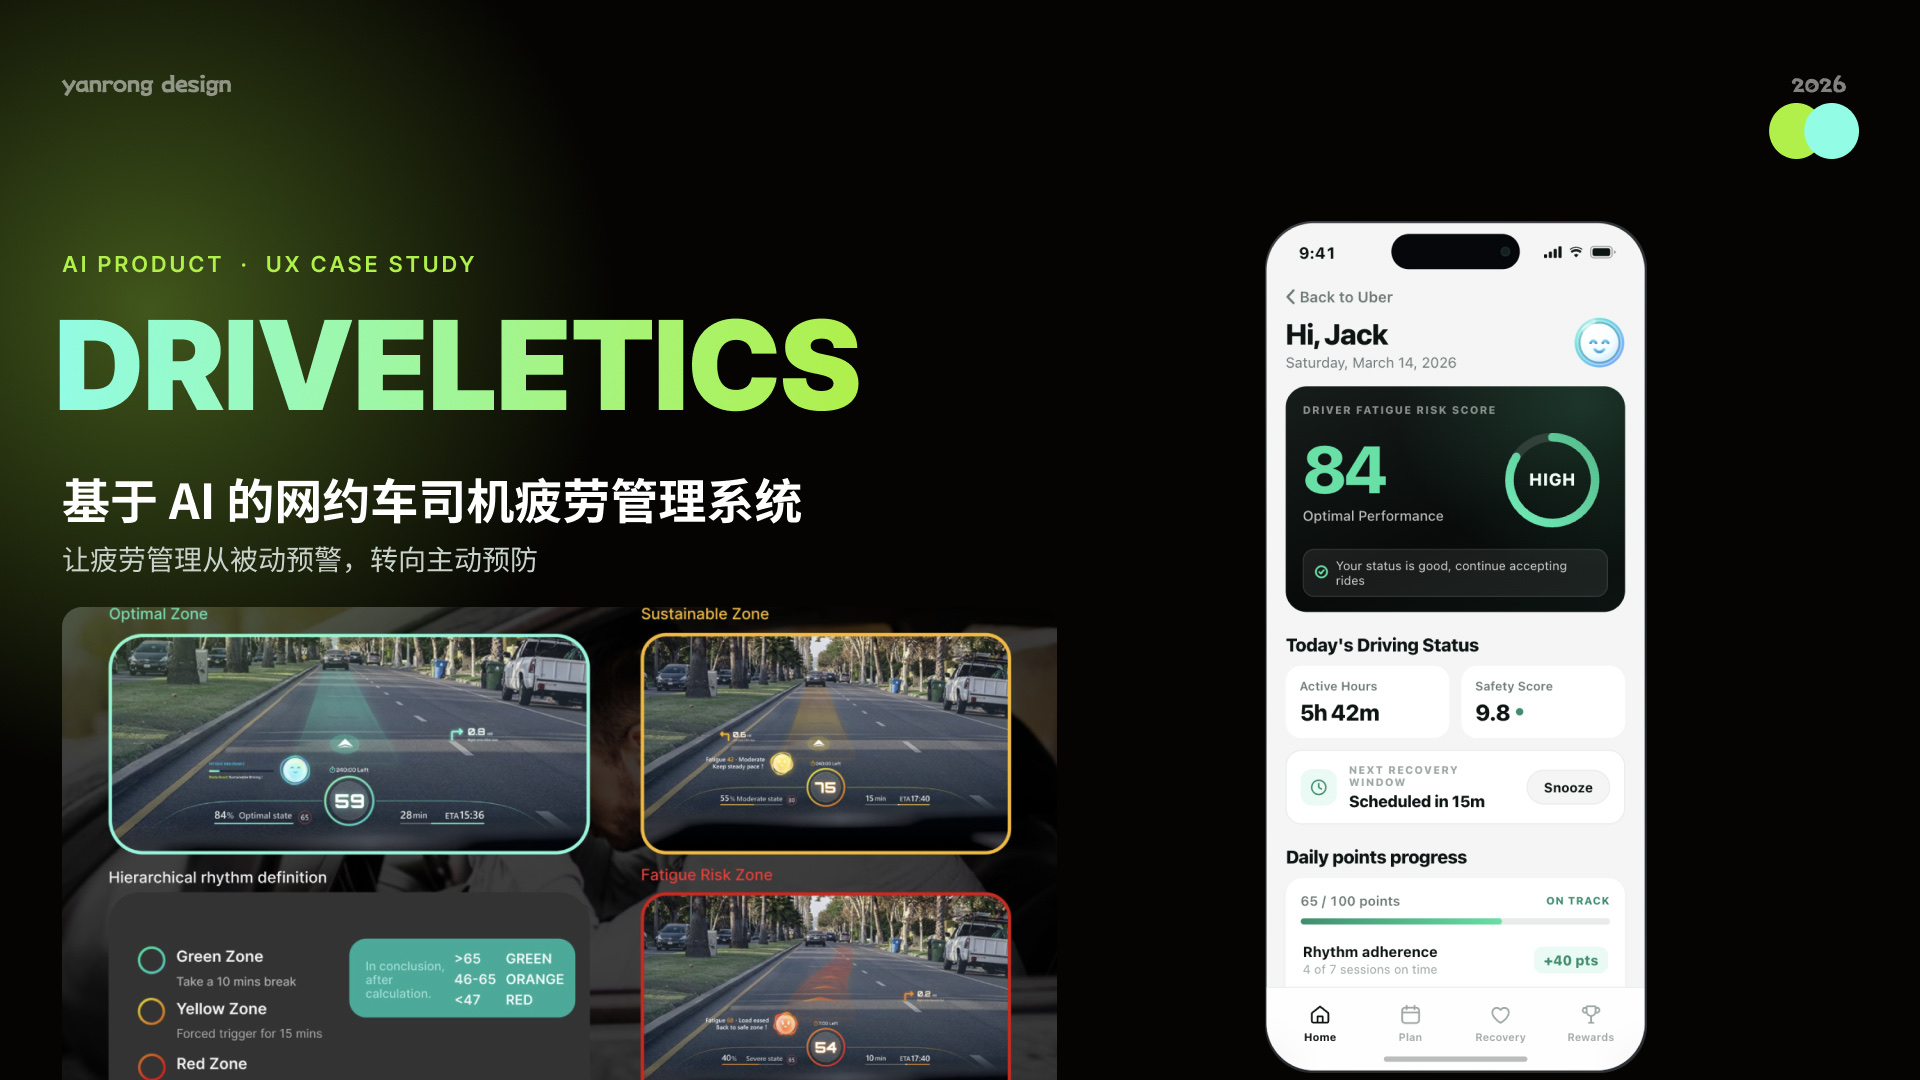
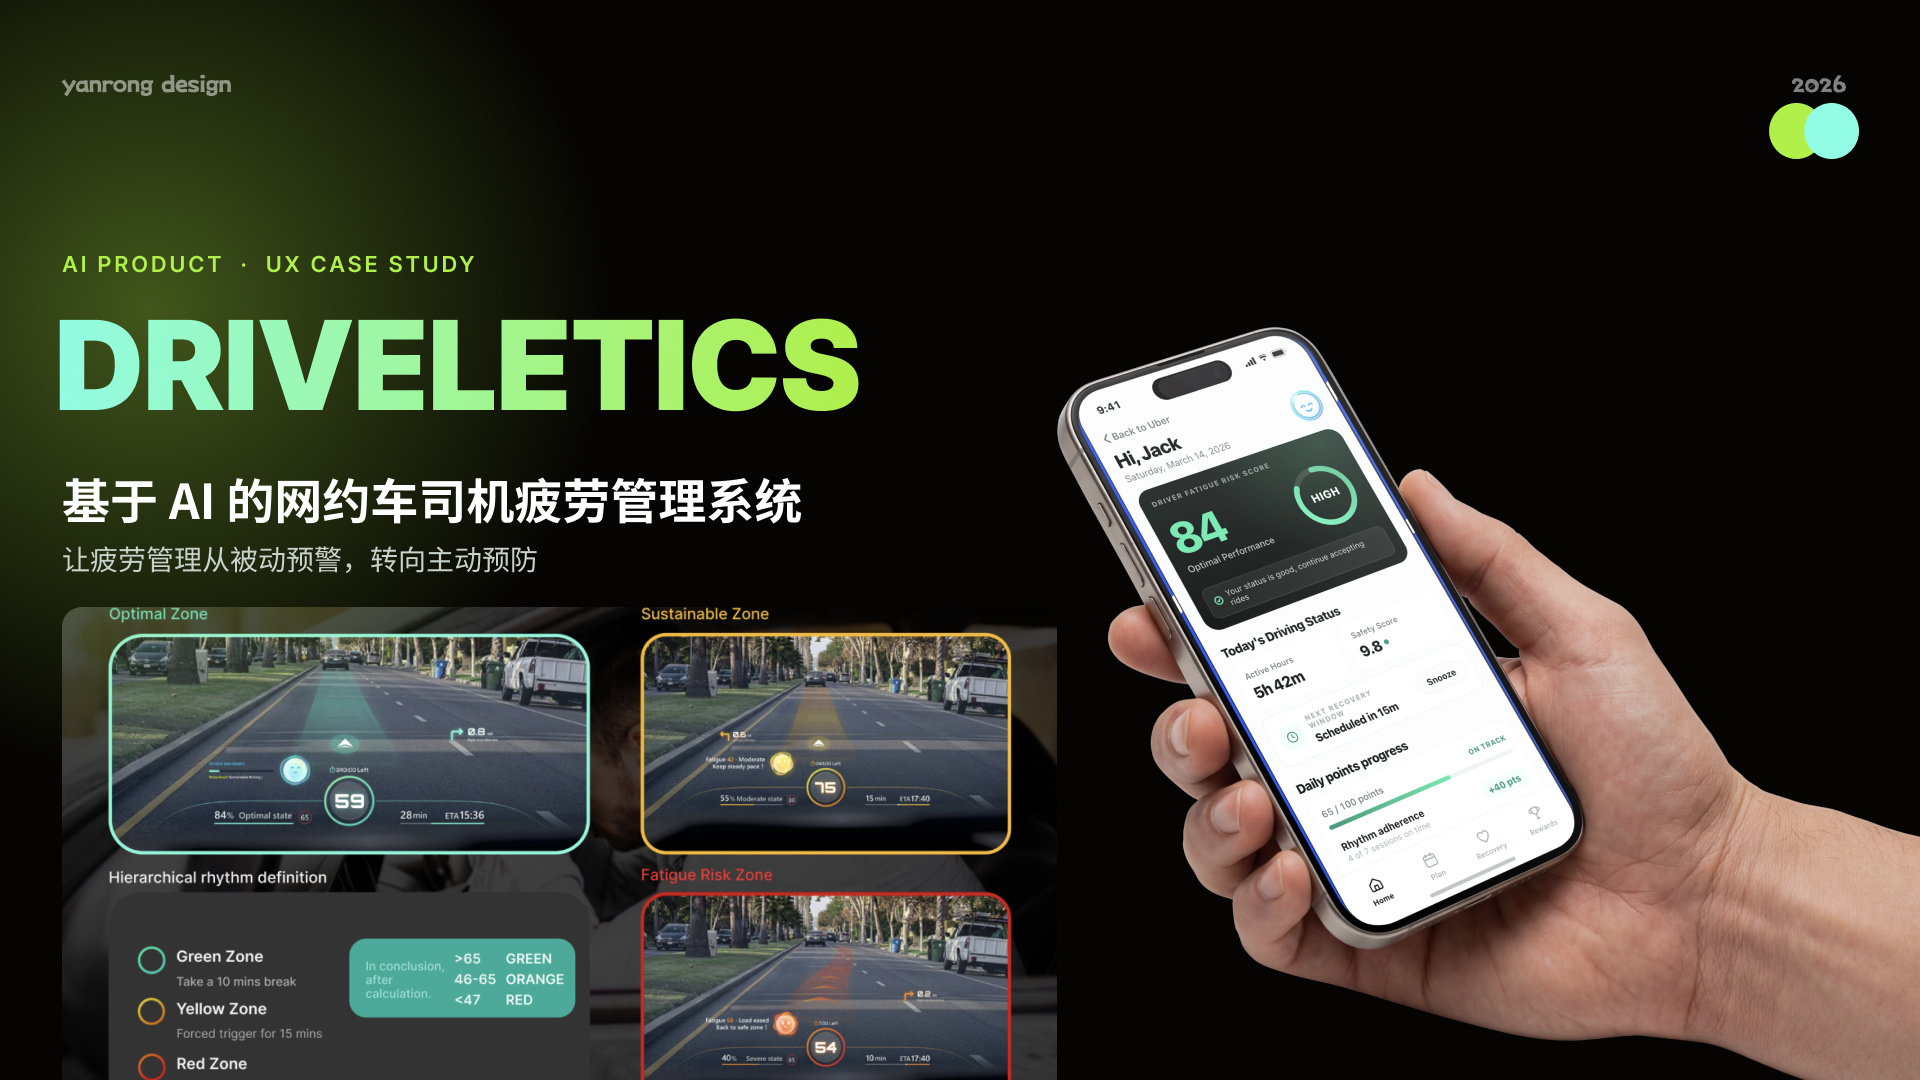
Driveletics as a regular project card; hide Bodycode App for now
- Home: comment out the Bodycode App card and put a Driveletics card in its
  place; the full-screen video reel (and reel.js) leaves the home page. The
  ?k=xvs2uz3wx6 link now removes that card instead of the reel.
- project-driveletics.html follows the other detail pages: 13 slides (001
  and 002 re-exported), the project video as the last page, then the
  prototype as a 查看可交互原型 link and Next project → 同程旅行.
- Background music pauses while the video plays.

Changed region(s): [[0.5312, 0.1833, 1.0, 1.0]]

diff --git a/project-driveletics.html b/project-driveletics.html
@@ -7,78 +7,96 @@
   <!-- keep the portfolio out of search results: only people with the link should find it -->
   <meta name="robots" content="noindex, nofollow" />
   <meta name="theme-color" content="#11111b" />
-  <meta property="og:title" content="Driveletics 疲劳驾驶干预系统 | Rong Yan" />
-  <title>Driveletics | Rong Yan</title>
+  <title>Driveletics 疲劳驾驶干预系统 | Rong Yan</title>
   <link rel="icon" type="image/png" sizes="32x32" href="src/png/favicon-32.png" />
   <link rel="icon" type="image/png" sizes="192x192" href="src/png/favicon-192.png" />
   <link rel="apple-touch-icon" href="src/png/apple-touch-icon.png" />
   <link rel="stylesheet" href="https://fonts.googleapis.com/css2?family=Fira+Code&display=swap" />
-  <!-- style.css for the reel player (same as the home page), project-detail.css for the top bar -->
-  <link rel="stylesheet" href="style.css?v=40" />
-  <link rel="stylesheet" href="project-detail.css?v=13" />
-  <script src="reel.js?v=2" defer></script>
+  <link rel="stylesheet" href="project-detail.css?v=14" />
+  <script>
+    // zoom the first page in when the browser did not morph it from the project card
+    (function () {
+      var root = document.documentElement;
+      if ("onpagereveal" in window) {
+        window.addEventListener("pagereveal", function (e) {
+          if (!e.viewTransition) {
+            root.classList.add("enter-zoom");
+            return;
+          }
+          // a skipped transition rejects these promises, which is expected
+          e.viewTransition.ready.catch(function () {});
+          e.viewTransition.finished.catch(function () {});
+        }, { once: true });
+      } else {
+        root.classList.add("enter-zoom");
+      }
+    })();
+  </script>
+  <script src="project-detail.js?v=6" defer></script>
   <script src="site-extras.js?v=4" defer></script>
 </head>
 
-<!-- Standalone link to the Driveletics video project (the home page shows the same reel inside #projects).
-     No background-music button here, so site-extras.js leaves the music off while the video is the focus. -->
 <body>
-  <div class="detail-bar">
-    <a class="detail-back" href="index.html" aria-label="Back to portfolio">&#8592; &#60;/Portfolio&#62;</a>
+  <header class="detail-bar">
+    <a class="detail-back" href="index.html#projects" aria-label="Back to projects">&#8592; &#60;/Projects&#62;</a>
     <div class="detail-bar-right">
       <div class="detail-bar-info">
-        <span class="detail-bar-title">Driveletics</span>
+        <span class="detail-bar-title">Driveletics 疲劳驾驶干预系统</span>
         <span class="detail-bar-meta">UX设计 · 车载 HUD + 司机端 App</span>
       </div>
+      <button class="detail-sound" type="button" aria-pressed="false" aria-label="打开背景音乐"></button>
     </div>
-  </div>
+  </header>
 
-  <main>
-      <div class="reel" id="driveletics">
-        <div class="reel-head">
-          <span class="reel-pill">VIDEO PROJECT</span>
-          <h3 class="reel-title">Driveletics<span>疲劳驾驶干预系统</span></h3>
-          <p class="reel-lead">Driveletics 是一套面向网约车司机的疲劳监测与分级干预系统，由车载 HUD 与司机端 App 组成。点击画面播放完整项目视频。</p>
-          <a class="reel-cta" href="driveletics-prototype.html" target="_blank" rel="noopener">
-            查看可交互原型
-            <svg viewBox="0 0 24 24" aria-hidden="true"><path d="M5 12h12.2l-4.6-4.6L14 6l7 7-7 7-1.4-1.4 4.6-4.6H5z" /></svg>
-          </a>
-        </div>
-        <figure class="reel-player">
-          <video class="reel-video" src="src/projects/driveletics/driveletics.mp4" poster="src/projects/driveletics/poster.jpg" width="1280" height="720" preload="metadata" playsinline aria-label="Driveletics 项目视频"></video>
-          <span class="reel-badge"><svg viewBox="0 0 24 24" aria-hidden="true"><path d="M8 5.14v13.72a1 1 0 0 0 1.52.85l10.6-6.86a1 1 0 0 0 0-1.7L9.52 4.29A1 1 0 0 0 8 5.14z" /></svg>项目视频 · 车载 HUD + 司机端 App</span>
-          <button class="reel-big-play" type="button" aria-label="播放视频"><span><svg viewBox="0 0 24 24" aria-hidden="true"><path d="M8 5.14v13.72a1 1 0 0 0 1.52.85l10.6-6.86a1 1 0 0 0 0-1.7L9.52 4.29A1 1 0 0 0 8 5.14z" /></svg></span></button>
-          <div class="reel-controls">
-            <button class="reel-btn reel-toggle" type="button" aria-label="播放">
-              <svg class="reel-icon-play" viewBox="0 0 24 24" aria-hidden="true"><path d="M8 5.14v13.72a1 1 0 0 0 1.52.85l10.6-6.86a1 1 0 0 0 0-1.7L9.52 4.29A1 1 0 0 0 8 5.14z" /></svg>
-              <svg class="reel-icon-pause" viewBox="0 0 24 24" aria-hidden="true"><path d="M7 4h3.5v16H7zM13.5 4H17v16h-3.5z" /></svg>
-            </button>
-            <div class="reel-progress" role="slider" tabindex="0" aria-label="播放进度" aria-valuemin="0" aria-valuemax="100" aria-valuenow="0"><span class="reel-progress-fill"></span></div>
-            <span class="reel-time">00:00 / 01:39</span>
-            <button class="reel-btn reel-mute" type="button" aria-label="静音">
-              <svg class="reel-icon-sound" viewBox="0 0 24 24" aria-hidden="true"><path d="M3 9v6h4l5 4V5L7 9H3zm13.5 3A4.5 4.5 0 0 0 14 7.97v8.06A4.5 4.5 0 0 0 16.5 12zM14 3.23v2.06a7 7 0 0 1 0 13.42v2.06a9 9 0 0 0 0-17.54z" /></svg>
-              <svg class="reel-icon-muted" viewBox="0 0 24 24" aria-hidden="true"><path d="M3 9v6h4l5 4V5L7 9H3zm18.4.0-1.4-1.4-2.5 2.5-2.5-2.5-1.4 1.4 2.5 2.5-2.5 2.5 1.4 1.4 2.5-2.5 2.5 2.5 1.4-1.4-2.5-2.5z" /></svg>
-            </button>
-          </div>
-        </figure>
-      </div>
-      <!-- case-study slides below the video -->
-      <div class="detail-pages detail-pages--after-reel">
-        <img src="src/projects/driveletics/pages/01.jpg?v=1" alt="封面 · 基于 AI 的网约车司机疲劳管理系统" width="1920" height="1080" loading="lazy" decoding="async" />
-        <img src="src/projects/driveletics/pages/02.jpg?v=1" alt="项目背景" width="1920" height="1080" loading="lazy" decoding="async" />
-        <img src="src/projects/driveletics/pages/03.jpg?v=1" alt="竞品分析" width="1920" height="1080" loading="lazy" decoding="async" />
-        <img src="src/projects/driveletics/pages/04.jpg?v=1" alt="用户调研 · 用户画像" width="1920" height="1080" loading="lazy" decoding="async" />
-        <img src="src/projects/driveletics/pages/05.jpg?v=1" alt="用户调研 · 用户旅程图" width="1920" height="1080" loading="lazy" decoding="async" />
-        <img src="src/projects/driveletics/pages/06.jpg?v=1" alt="设计策略与目标推导" width="1920" height="1080" loading="lazy" decoding="async" />
-        <img src="src/projects/driveletics/pages/07.jpg?v=1" alt="界面设计 · AR-HUD 三级认知耐力仪表" width="1920" height="1080" loading="lazy" decoding="async" />
-        <img src="src/projects/driveletics/pages/08.jpg?v=1" alt="界面设计 · AR-HUD 红区干预" width="1920" height="1080" loading="lazy" decoding="async" />
-        <img src="src/projects/driveletics/pages/09.jpg?v=1" alt="AI 逻辑 · 从多源信号到三级干预" width="1920" height="1080" loading="lazy" decoding="async" />
-        <img src="src/projects/driveletics/pages/10.jpg?v=1" alt="Human + AI · 最终决策由司机保留" width="1920" height="1080" loading="lazy" decoding="async" />
-        <img src="src/projects/driveletics/pages/11.jpg?v=1" alt="A/B 实验" width="1920" height="1080" loading="lazy" decoding="async" />
-        <img src="src/projects/driveletics/pages/12.jpg?v=1" alt="验证结果" width="1920" height="1080" loading="lazy" decoding="async" />
-        <img src="src/projects/driveletics/pages/13.jpg?v=1" alt="总结与反思" width="1920" height="1080" loading="lazy" decoding="async" />
-      </div>
+  <main class="detail-main">
+    <!-- Detail page images, stacked top to bottom -->
+    <div class="detail-pages">
+      <img src="src/projects/driveletics/pages/01.jpg?v=2" alt="封面 · 基于 AI 的网约车司机疲劳管理系统" width="1920" height="1080" style="view-transition-name: driveletics-cover" />
+      <img src="src/projects/driveletics/pages/02.jpg?v=2" alt="项目背景" width="1920" height="1080" decoding="async" />
+      <img src="src/projects/driveletics/pages/03.jpg?v=1" alt="竞品分析" width="1920" height="1080" loading="lazy" decoding="async" />
+      <img src="src/projects/driveletics/pages/04.jpg?v=1" alt="用户调研 · 用户画像" width="1920" height="1080" loading="lazy" decoding="async" />
+      <img src="src/projects/driveletics/pages/05.jpg?v=1" alt="用户调研 · 用户旅程图" width="1920" height="1080" loading="lazy" decoding="async" />
+      <img src="src/projects/driveletics/pages/06.jpg?v=1" alt="设计策略与目标推导" width="1920" height="1080" loading="lazy" decoding="async" />
+      <img src="src/projects/driveletics/pages/07.jpg?v=1" alt="界面设计 · AR-HUD 三级认知耐力仪表" width="1920" height="1080" loading="lazy" decoding="async" />
+      <img src="src/projects/driveletics/pages/08.jpg?v=1" alt="界面设计 · AR-HUD 红区干预" width="1920" height="1080" loading="lazy" decoding="async" />
+      <img src="src/projects/driveletics/pages/09.jpg?v=1" alt="AI 逻辑 · 从多源信号到三级干预" width="1920" height="1080" loading="lazy" decoding="async" />
+      <img src="src/projects/driveletics/pages/10.jpg?v=1" alt="Human + AI · 最终决策由司机保留" width="1920" height="1080" loading="lazy" decoding="async" />
+      <img src="src/projects/driveletics/pages/11.jpg?v=1" alt="A/B 实验" width="1920" height="1080" loading="lazy" decoding="async" />
+      <img src="src/projects/driveletics/pages/12.jpg?v=1" alt="验证结果" width="1920" height="1080" loading="lazy" decoding="async" />
+      <img src="src/projects/driveletics/pages/13.jpg?v=1" alt="总结与反思" width="1920" height="1080" loading="lazy" decoding="async" />
+      <!-- last page: the project video -->
+      <video class="detail-video" src="src/projects/driveletics/driveletics.mp4" poster="src/projects/driveletics/poster.jpg" width="1280" height="720" controls preload="metadata" playsinline aria-label="Driveletics 项目视频"></video>
+    </div>
+
+    <div class="detail-end">
+      <a class="detail-cta" href="driveletics-prototype.html" target="_blank" rel="noopener">
+        查看可交互原型
+        <svg viewBox="0 0 24 24" aria-hidden="true"><path d="M5 12h12.2l-4.6-4.6L14 6l7 7-7 7-1.4-1.4 4.6-4.6H5z" /></svg>
+      </a>
+      <a class="detail-next" href="project-tongcheng.html" aria-label="Next project: 同程旅行 机票预订流程体验优化">
+        <span class="detail-next-label">Next project &#8594;</span>
+        <span class="detail-next-title">同程旅行 机票预订流程体验优化</span>
+      </a>
+    </div>
   </main>
+  <script>
+    // background music pauses while the video plays and resumes afterwards if the sound switch is still on
+    (function () {
+      var video = document.querySelector(".detail-video");
+      var toggle = document.querySelector(".detail-sound");
+      function music() { return document.querySelector("body > audio"); }
+      video.addEventListener("play", function () {
+        var a = music();
+        if (a && !a.paused) a.pause();
+      });
+      function resume() {
+        var a = music();
+        if (a && toggle && toggle.getAttribute("aria-pressed") === "true") a.play().catch(function () {});
+      }
+      video.addEventListener("pause", resume);
+      video.addEventListener("ended", resume);
+    })();
+  </script>
 </body>
 
 </html>

diff --git a/index.html b/index.html
@@ -18,7 +18,7 @@
   <link rel="stylesheet" href="https://unpkg.com/aos@next/dist/aos.css" />
   <!-- stylesheet -->
   <link rel="stylesheet" href="style.css?v=47" />
-  <link rel="prefetch" href="src/projects/bodycode/01.jpg?v=3" as="image" />
+  <link rel="prefetch" href="src/projects/driveletics/pages/01.jpg?v=2" as="image" />
   <link rel="prefetch" href="src/projects/tongcheng/01.jpg?v=1" as="image" />
   <link rel="prefetch" href="src/projects/sugo/01.jpg?v=2" as="image" />
   <link rel="prefetch" href="src/projects/muse/01.jpg?v=3" as="image" />
@@ -225,6 +225,7 @@
         </div>
       </div>
       <ul class="projects-grid">
+        <!-- Bodycode App: hidden for now (page project-bodycode.html kept)
         <li class="project-card" data-aos="fade-up" data-aos-delay="0">
           <div class="project-card-media">
             <img src="src/jpg/bodycode-cover.jpg?v=7" alt="Bodycode App 封面" loading="lazy" style="view-transition-name: bodycode-cover" />
@@ -236,6 +237,21 @@
                 <p class="project-card-meta">UI/UX设计 · C端</p>
               </div>
               <a href="project-bodycode.html" class="project-card-link" aria-label="查看 Bodycode App">View project</a>
+            </div>
+          </div>
+        </li>
+        -->
+        <li class="project-card" id="driveletics-card" data-aos="fade-up" data-aos-delay="0">
+          <div class="project-card-media">
+            <img src="src/jpg/driveletics-cover.jpg?v=1" alt="Driveletics 封面" loading="lazy" style="view-transition-name: driveletics-cover" />
+          </div>
+          <div class="project-card-body">
+            <div class="project-card-head">
+              <div>
+                <h3 class="project-card-title">Driveletics 疲劳驾驶干预系统</h3>
+                <p class="project-card-meta">UX设计 · 车载 HUD + 司机端 App</p>
+              </div>
+              <a href="project-driveletics.html" class="project-card-link" aria-label="查看 Driveletics 疲劳驾驶干预系统">View project</a>
             </div>
           </div>
         </li>
@@ -283,39 +299,8 @@
         </li>
       </ul>
 
-      <!-- Driveletics: video project on its own screen, paused on the first frame until played (reel.js).
-           Shown by default. The link without the car project adds ?k=<key>: then the template stays inert (nothing
-           rendered, video not loaded), and it stays hidden in that browser tab when coming back from a project page (sessionStorage). -->
-      <template id="driveletics-reel">
-      <div class="reel" id="driveletics">
-        <div class="reel-head" data-aos="fade-up">
-          <span class="reel-pill">VIDEO PROJECT</span>
-          <h3 class="reel-title">Driveletics<span>疲劳驾驶干预系统</span></h3>
-          <p class="reel-lead">Driveletics 是一套面向网约车司机的疲劳监测与分级干预系统，由车载 HUD 与司机端 App 组成。点击画面播放完整项目视频。</p>
-          <a class="reel-cta" href="driveletics-prototype.html" target="_blank" rel="noopener" data-aos="fade-up" data-aos-delay="200">
-            查看可交互原型
-            <svg viewBox="0 0 24 24" aria-hidden="true"><path d="M5 12h12.2l-4.6-4.6L14 6l7 7-7 7-1.4-1.4 4.6-4.6H5z" /></svg>
-          </a>
-        </div>
-        <figure class="reel-player" data-aos="fade-up" data-aos-delay="100">
-          <video class="reel-video" src="src/projects/driveletics/driveletics.mp4" poster="src/projects/driveletics/poster.jpg" width="1280" height="720" preload="metadata" playsinline aria-label="Driveletics 项目视频"></video>
-          <span class="reel-badge"><svg viewBox="0 0 24 24" aria-hidden="true"><path d="M8 5.14v13.72a1 1 0 0 0 1.52.85l10.6-6.86a1 1 0 0 0 0-1.7L9.52 4.29A1 1 0 0 0 8 5.14z" /></svg>项目视频 · 车载 HUD + 司机端 App</span>
-          <button class="reel-big-play" type="button" aria-label="播放视频"><span><svg viewBox="0 0 24 24" aria-hidden="true"><path d="M8 5.14v13.72a1 1 0 0 0 1.52.85l10.6-6.86a1 1 0 0 0 0-1.7L9.52 4.29A1 1 0 0 0 8 5.14z" /></svg></span></button>
-          <div class="reel-controls">
-            <button class="reel-btn reel-toggle" type="button" aria-label="播放">
-              <svg class="reel-icon-play" viewBox="0 0 24 24" aria-hidden="true"><path d="M8 5.14v13.72a1 1 0 0 0 1.52.85l10.6-6.86a1 1 0 0 0 0-1.7L9.52 4.29A1 1 0 0 0 8 5.14z" /></svg>
-              <svg class="reel-icon-pause" viewBox="0 0 24 24" aria-hidden="true"><path d="M7 4h3.5v16H7zM13.5 4H17v16h-3.5z" /></svg>
-            </button>
-            <div class="reel-progress" role="slider" tabindex="0" aria-label="播放进度" aria-valuemin="0" aria-valuemax="100" aria-valuenow="0"><span class="reel-progress-fill"></span></div>
-            <span class="reel-time">00:00 / 01:39</span>
-            <button class="reel-btn reel-mute" type="button" aria-label="静音">
-              <svg class="reel-icon-sound" viewBox="0 0 24 24" aria-hidden="true"><path d="M3 9v6h4l5 4V5L7 9H3zm13.5 3A4.5 4.5 0 0 0 14 7.97v8.06A4.5 4.5 0 0 0 16.5 12zM14 3.23v2.06a7 7 0 0 1 0 13.42v2.06a9 9 0 0 0 0-17.54z" /></svg>
-              <svg class="reel-icon-muted" viewBox="0 0 24 24" aria-hidden="true"><path d="M3 9v6h4l5 4V5L7 9H3zm18.4.0-1.4-1.4-2.5 2.5-2.5-2.5-1.4 1.4 2.5 2.5-2.5 2.5 1.4 1.4 2.5-2.5 2.5 2.5 1.4-1.4-2.5-2.5z" /></svg>
-            </button>
-          </div>
-        </figure>
-      </div>
-      </template>
+      <!-- Driveletics card is shown by default. The link without the car project adds ?k=<key>: then the card is removed,
+           and it stays hidden in that browser tab when coming back from a project page (sessionStorage). -->
       <script>
         (function () {
           var KEY = "xvs2uz3wx6";
@@ -325,9 +310,7 @@
             if (fromLink) sessionStorage.setItem("ry-portfolio-no-car", "1");
             hidden = hidden || sessionStorage.getItem("ry-portfolio-no-car") === "1";
           } catch (e) {}
-          if (hidden) return;
-          var tpl = document.getElementById("driveletics-reel");
-          tpl.parentNode.insertBefore(tpl.content.cloneNode(true), tpl);
+          if (hidden) document.getElementById("driveletics-card").remove();
         })();
       </script>
     </section>
@@ -486,7 +469,6 @@
 
   <script src="main.js"></script>
   <script src="experience.js?v=4"></script>
-  <script src="reel.js?v=2"></script>
 
   <script src="https://unpkg.com/aos@next/dist/aos.js"></script>
   <script>

diff --git a/driveletics-prototype.html b/driveletics-prototype.html
@@ -220,7 +220,7 @@ h2.title{font-size:27px; font-weight:800; letter-spacing:-.025em; margin:0}
 
 <body class="proto-body">
   <header class="detail-bar">
-    <a class="detail-back" href="index.html#driveletics" aria-label="Back to Driveletics">&#8592; &#60;/Projects&#62;</a>
+    <a class="detail-back" href="project-driveletics.html" aria-label="Back to Driveletics">&#8592; &#60;/Projects&#62;</a>
     <div class="detail-bar-right">
       <div class="detail-bar-info">
         <span class="detail-bar-title">Driveletics 可交互原型</span>
@@ -669,9 +669,9 @@ setInterval(()=>{
 </script>
 
     <div class="detail-end">
-      <a class="detail-next" href="index.html#driveletics" aria-label="Back to the Driveletics project video">
+      <a class="detail-next" href="project-driveletics.html" aria-label="Back to the Driveletics project">
         <span class="detail-next-label">&#8592; Back to project</span>
-        <span class="detail-next-title">Driveletics 项目视频</span>
+        <span class="detail-next-title">Driveletics 疲劳驾驶干预系统</span>
       </a>
     </div>
   </main>

diff --git a/project-detail.css b/project-detail.css
@@ -452,7 +452,11 @@ body {
   }
 }
 
-/* Driveletics page: slides sit under the full-height video reel */
-.detail-pages--after-reel {
-  padding-bottom: clamp(48px, 6vw, 96px);
+.detail-pages > video {
+  display: block;
+  width: 100%;
+  height: auto;
+  background: #000;
+  border-radius: clamp(8px, 1.2vw, 18px);
+  box-shadow: 0 24px 60px rgba(0, 0, 0, 0.35);
 }
